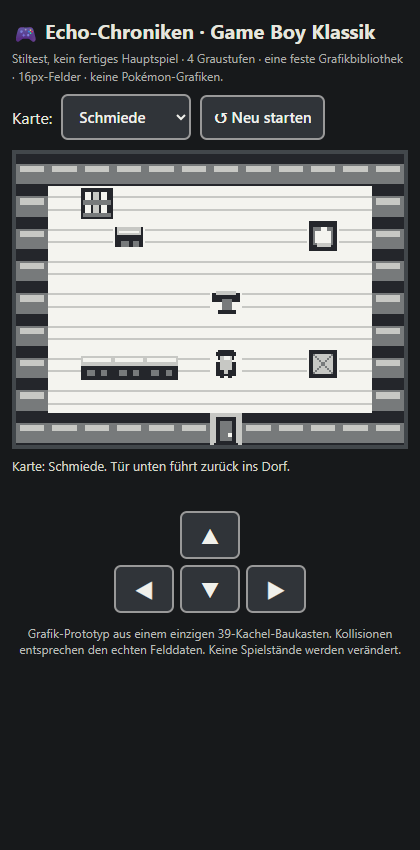
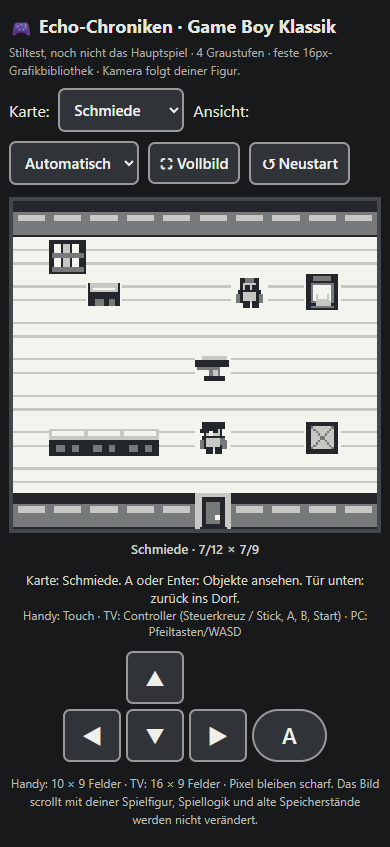
art: include native four-tone atlas and real phone-TV camera screenshots

diff --git a/echo-chroniken/docs/gb-classic/klassik-demo.html b/echo-chroniken/docs/gb-classic/klassik-demo.html
@@ -2,93 +2,251 @@
 <meta name="viewport" content="width=device-width,initial-scale=1,minimum-scale=1" />
 <title>Echo-Chroniken · Game Boy Klassik Stiltest</title>
 <style>
-:root{color-scheme:dark}*{box-sizing:border-box}
-body{background:#17191b;color:#e6e6de;font-family:system-ui,sans-serif;max-width:860px;margin:0 auto;padding:12px}
-h1{font-size:20px;margin:5px 0}.subtitle{font-size:12px;line-height:1.5;color:#acada9;margin-bottom:9px}
-.controls{display:flex;flex-wrap:wrap;gap:9px;align-items:center;margin-bottom:10px}
+:root{color-scheme:dark}
+*{box-sizing:border-box}
+body{background:#17191b;color:#e6e6de;font-family:system-ui,sans-serif;max-width:1160px;margin:0 auto;padding:12px}
+h1{font-size:20px;margin:5px 0}
+.subtitle{font-size:12px;line-height:1.5;color:#acada9;margin-bottom:9px}
+.controls{display:flex;flex-wrap:wrap;gap:9px;align-items:center;margin-bottom:12px}
 select,button{border:2px solid #999;background:#303439;color:#f0f0eb;padding:10px 12px;border-radius:7px;font:600 15px system-ui}
-#view{display:block;image-rendering:pixelated;image-rendering:crisp-edges;background:#f4f4ef;margin:auto;border:4px solid #42474b;width:min(100%,720px);height:auto;touch-action:none}
-.pad{display:grid;grid-template-columns:repeat(3,60px);grid-template-rows:repeat(2,48px);justify-content:center;gap:6px;margin:12px auto}
-.pad button{padding:6px;font-size:21px;touch-action:manipulation}
-.pad .up{grid-column:2}.pad .left{grid-column:1;grid-row:2}.pad .down{grid-column:2;grid-row:2}.pad .right{grid-column:3;grid-row:2}
-footer{font-size:12px;color:#b8bbb6;text-align:center;margin-top:6px}
-#message{font-size:13px;min-height:42px;line-height:1.4;color:#d5d6c9;margin-top:8px}
-kbd{border:1px solid #737c80;padding:2px 4px;border-radius:4px}
+button:focus-visible,select:focus-visible{outline:3px solid #f4f4ef;outline-offset:2px}
+#game-frame{margin:0 auto;max-width:1100px;display:grid;justify-items:center}
+#view{display:block;image-rendering:pixelated;image-rendering:crisp-edges;background:#f4f4ef;border:4px solid #42474b;
+  max-width:100%;width:100%;height:auto;touch-action:none}
+#hud{font-size:13px;font-weight:600;align-self:start;margin:7px 0;color:#d1d1cc}
+#message{font-size:13px;min-height:34px;line-height:1.4;color:#d5d6c9;margin-top:7px;text-align:center}
+#controller-state{font-size:12px;color:#babdb7;text-align:center}
+.pad{display:grid;grid-template-columns:repeat(3,66px) 82px;grid-template-rows:repeat(2,55px);
+ justify-content:center;gap:7px;margin:12px auto}
+.pad button{padding:6px;font-size:22px;touch-action:none;user-select:none;-webkit-user-select:none}
+.pad .up{grid-column:2;grid-row:1}.pad .left{grid-column:1;grid-row:2}
+.pad .down{grid-column:2;grid-row:2}.pad .right{grid-column:3;grid-row:2}
+.pad .action{grid-column:4;grid-row:2;border-radius:30px}
+footer{font-size:12px;line-height:1.5;color:#b8bbb6;text-align:center;margin:10px auto;max-width:650px}
+body.gamepad .pad{display:none}
+@media (orientation:landscape) and (min-width:850px){body{padding:10px 24px}#game-frame{width:100%}.pad{display:none}}
+@media (max-width:480px){body{padding:9px}.pad{grid-template-columns:repeat(3,58px) 75px;grid-template-rows:repeat(2,53px);gap:5px}
+h1{font-size:18px}select,button{padding:9px 10px}}
+:fullscreen body{max-width:none;width:100vw;height:100vh}
+:fullscreen #view{max-height:76vh}
 </style></head><body>
 <h1>🎮 Echo-Chroniken · Game Boy Klassik</h1>
-<div class="subtitle">Stiltest, kein fertiges Hauptspiel · 4 Graustufen · eine feste Grafikbibliothek · 16px-Felder · keine Pokémon-Grafiken.</div>
-<div class="controls"><label for="scene">Karte:</label><select id="scene"></select>
-<button id="reset">↺ Neu starten</button></div>
-<canvas id="view" width="320" height="288" aria-label="Spielkarte"></canvas>
-<div id="message">Mit Steuerkreuz oder Pfeiltasten bewegen. Das Tor eines Hauses führt in ein Innenzimmer.</div>
-<div class="pad">
+<div class="subtitle">Stiltest, noch nicht das Hauptspiel · 4 Graustufen · feste 16px-Grafikbibliothek · Kamera folgt deiner Figur.</div>
+<div class="controls">
+<label for="scene">Karte:</label><select id="scene"></select>
+<label for="mode">Ansicht:</label><select id="mode" aria-label="Bildschirmansicht">
+<option value="auto">Automatisch</option><option value="phone">Handy</option><option value="tv">TV</option>
+</select>
+<button id="fullscreen" type="button">⛶ Vollbild</button>
+<button id="reset" type="button">↺ Neustart</button>
+</div>
+<div id="game-frame">
+<canvas id="view" width="160" height="144" aria-label="Ausschnitt der Spielwelt, folgt deiner Figur"></canvas>
+<div id="hud" aria-live="polite"></div>
+</div>
+<div id="message" role="status">Mit Steuerkreuz, Pfeiltasten oder Gamepad bewegen. Mit A oder Enter interagieren.</div>
+<div id="controller-state">Handy: Touch · TV: Controller (Steuerkreuz / Stick, A, B, Start) · PC: Pfeiltasten/WASD</div>
+<div class="pad" aria-label="Steuerung">
 <button class="up" data-move="0,-1" aria-label="Hoch">▲</button>
 <button class="left" data-move="-1,0" aria-label="Links">◀</button>
 <button class="down" data-move="0,1" aria-label="Runter">▼</button>
 <button class="right" data-move="1,0" aria-label="Rechts">▶</button>
+<button class="action" id="action" aria-label="Interagieren">A</button>
 </div>
-<footer>Grafik-Prototyp aus einem einzigen 39-Kachel-Baukasten. Kollisionen entsprechen den echten Felddaten. Keine Spielstände werden verändert.</footer>
+<footer>Handy: 10 × 9 Felder · TV: 16 × 9 Felder · Pixel bleiben scharf. Das Bild scrollt mit deiner Spielfigur, Spiellogik und alte Speicherstände werden nicht verändert.</footer>
 <script>
-const DATA={"version":"1.0","scenes":{"Wurzelheim":{"width":20,"height":18,"rows":["44444444400444444444","40000000000000000004","40000000000000000004","400abbc000000abbc004","400dddd000000dddd004","400defd000000def9004","40000000000000000004","40555500000055555004","40000000009000000004","400B0000000000666004","4000000abbc000666004","4000000dddd00000B004","4003300defe000033004","40000000000000000004","40555550000005555004","4000000000y000000004","40000000000000000004","44444444400444444444"],"blocked":[[0,0],[1,0],[2,0],[3,0],[4,0],[5,0],[6,0],[7,0],[8,0],[11,0],[12,0],[13,0],[14,0],[15,0],[16,0],[17,0],[18,0],[19,0],[0,1],[19,1],[0,2],[19,2],[0,3],[3,3],[4,3],[5,3],[6,3],[13,3],[14,3],[15,3],[16,3],[19,3],[0,4],[3,4],[4,4],[5,4],[6,4],[13,4],[14,4],[15,4],[16,4],[19,4],[0,5],[3,5],[4,5],[6,5],[13,5],[14,5],[19,5],[0,6],[19,6],[0,7],[2,7],[3,7],[4,7],[5,7],[12,7],[13,7],[14,7],[15,7],[16,7],[19,7],[0,8],[19,8],[0,9],[14,9],[15,9],[16,9],[19,9],[0,10],[7,10],[8,10],[9,10],[10,10],[14,10],[15,10],[16,10],[19,10],[0,11],[7,11],[8,11],[9,11],[10,11],[19,11],[0,12],[3,12],[4,12],[7,12],[8,12],[10,12],[15,12],[16,12],[19,12],[0,13],[19,13],[0,14],[2,14],[3,14],[4,14],[5,14],[6,14],[13,14],[14,14],[15,14],[16,14],[19,14],[0,15],[19,15],[0,16],[19,16],[0,17],[1,17],[2,17],[3,17],[4,17],[5,17],[6,17],[7,17],[8,17],[11,17],[12,17],[13,17],[14,17],[15,17],[16,17],[17,17],[18,17],[19,17]]},"Route":{"width":20,"height":18,"rows":["44444444000444444444","44000000000000000044","44000000000000000044","44022220000002222044","44022220000002222044","44022220000002222044","44022220000002222044","44022220000002222044","44022220000002222044","4400000000000x000044","44000090000000000044","44000000000000000044","44022220000000000044","44022220000555550044","44022220000000000044","440000000y0000000044","44000000000000000044","44444444000444444444"],"blocked":[[0,0],[1,0],[2,0],[3,0],[4,0],[5,0],[6,0],[7,0],[11,0],[12,0],[13,0],[14,0],[15,0],[16,0],[17,0],[18,0],[19,0],[0,1],[1,1],[18,1],[19,1],[0,2],[1,2],[18,2],[19,2],[0,3],[1,3],[18,3],[19,3],[0,4],[1,4],[18,4],[19,4],[0,5],[1,5],[18,5],[19,5],[0,6],[1,6],[18,6],[19,6],[0,7],[1,7],[18,7],[19,7],[0,8],[1,8],[18,8],[19,8],[0,9],[1,9],[18,9],[19,9],[0,10],[1,10],[18,10],[19,10],[0,11],[1,11],[18,11],[19,11],[0,12],[1,12],[18,12],[19,12],[0,13],[1,13],[11,13],[12,13],[13,13],[14,13],[15,13],[18,13],[19,13],[0,14],[1,14],[18,14],[19,14],[0,15],[1,15],[18,15],[19,15],[0,16],[1,16],[18,16],[19,16],[0,17],[1,17],[2,17],[3,17],[4,17],[5,17],[6,17],[7,17],[11,17],[12,17],[13,17],[14,17],[15,17],[16,17],[17,17],[18,17],[19,17]]},"Laden":{"width":12,"height":9,"rows":["hhhhhhhhhhhh","hgiiiiiggxgh","hggggggjjjjh","hggggggggggh","hggiiggiiggh","hggggggggggh","hgggggyggggh","hggggggggggh","hhhhhhfhhhhh"],"blocked":[[0,0],[1,0],[2,0],[3,0],[4,0],[5,0],[6,0],[7,0],[8,0],[9,0],[10,0],[11,0],[0,1],[2,1],[3,1],[4,1],[5,1],[6,1],[11,1],[0,2],[7,2],[8,2],[9,2],[10,2],[11,2],[0,3],[11,3],[0,4],[3,4],[4,4],[7,4],[8,4],[11,4],[0,5],[11,5],[0,6],[11,6],[0,7],[11,7],[0,8],[1,8],[2,8],[3,8],[4,8],[5,8],[7,8],[8,8],[9,8],[10,8],[11,8]]},"Heilstation":{"width":14,"height":9,"rows":["hhhhhhhhhhhhhh","hggggggngxgggh","hgvjjjjjjjjvgh","hggggggggggggh","hggggggggggggh","hggllggggllggh","hggggggygggggh","hggggggggggggh","hhhhhhhfhhhhhh"],"blocked":[[0,0],[1,0],[2,0],[3,0],[4,0],[5,0],[6,0],[7,0],[8,0],[9,0],[10,0],[11,0],[12,0],[13,0],[0,1],[7,1],[13,1],[0,2],[2,2],[3,2],[4,2],[5,2],[6,2],[7,2],[8,2],[9,2],[10,2],[11,2],[13,2],[0,3],[13,3],[0,4],[13,4],[0,5],[3,5],[4,5],[9,5],[10,5],[13,5],[0,6],[13,6],[0,7],[13,7],[0,8],[1,8],[2,8],[3,8],[4,8],[5,8],[6,8],[8,8],[9,8],[10,8],[11,8],[12,8],[13,8]]},"Schmiede":{"width":12,"height":9,"rows":["hhhhhhhhhhhh","hgiggggggggh","hggugggxgogh","hggggggggggh","hgggggpggggh","hggggggggggh","hgjjjgyggqgh","hggggggggggh","hhhhhhfhhhhh"],"blocked":[[0,0],[1,0],[2,0],[3,0],[4,0],[5,0],[6,0],[7,0],[8,0],[9,0],[10,0],[11,0],[0,1],[2,1],[11,1],[0,2],[3,2],[9,2],[11,2],[0,3],[11,3],[0,4],[6,4],[11,4],[0,5],[11,5],[0,6],[2,6],[3,6],[4,6],[9,6],[11,6],[0,7],[11,7],[0,8],[1,8],[2,8],[3,8],[4,8],[5,8],[7,8],[8,8],[9,8],[10,8],[11,8]]},"Teamtausch":{"width":12,"height":9,"rows":["hhhhhhhhhhhh","hggmmgwwwggh","hggggggggggh","hgggggxggggh","hggggggggggh","hggjggggjggh","hgggggyggggh","hggggggggggh","hhhhhhfhhhhh"],"blocked":[[0,0],[1,0],[2,0],[3,0],[4,0],[5,0],[6,0],[7,0],[8,0],[9,0],[10,0],[11,0],[0,1],[3,1],[4,1],[6,1],[7,1],[8,1],[11,1],[0,2],[11,2],[0,3],[11,3],[0,4],[11,4],[0,5],[3,5],[8,5],[11,5],[0,6],[11,6],[0,7],[11,7],[0,8],[1,8],[2,8],[3,8],[4,8],[5,8],[7,8],[8,8],[9,8],[10,8],[11,8]]},"Wohnhaus":{"width":10,"height":8,"rows":["hhhhhhhhhh","hgsggggigh","hggggggggh","hggggggggh","hggggkgggh","hgvggylggh","hggggggggh","hhhhhfhhhh"],"blocked":[[0,0],[1,0],[2,0],[3,0],[4,0],[5,0],[6,0],[7,0],[8,0],[9,0],[0,1],[2,1],[7,1],[9,1],[0,2],[9,2],[0,3],[9,3],[0,4],[5,4],[9,4],[0,5],[2,5],[6,5],[9,5],[0,6],[9,6],[0,7],[1,7],[2,7],[3,7],[4,7],[6,7],[7,7],[8,7],[9,7]]}},"symbols":{"0":"floor","1":"path","2":"grass","3":"bush","4":"tree","5":"fence","6":"water_a","7":"water_b","8":"rock","9":"sign","a":"roof_l","b":"roof_m","c":"roof_r","d":"wall","e":"window","f":"door","g":"room_floor","h":"room_wall","i":"bookshelf","j":"counter","k":"table","l":"chair","m":"computer","n":"heal_pod","o":"forge","p":"anvil","q":"crate","r":"barrel","s":"bed","t":"stairs","u":"workbench","v":"plant","w":"capsule","x":"npc","y":"player","z":"water_edge","A":"hedge","B":"flower","C":"floor_stone"}};
-const MANIFEST={"version":"1.0","name":"Echo-Chroniken GB-Klassik","license":"Original artwork, project-owned; inspired by constraints, not copied sprites","palette":["#f4f4ef","#c7c8c4","#777a7b","#24262b"],"tileSize":16,"sprites":{"floor":{"atlasIndex":0,"collision":false},"path":{"atlasIndex":1,"collision":false},"grass":{"atlasIndex":2,"collision":false},"bush":{"atlasIndex":3,"collision":true},"tree":{"atlasIndex":4,"collision":true},"fence":{"atlasIndex":5,"collision":true},"water_a":{"atlasIndex":6,"collision":true},"water_b":{"atlasIndex":7,"collision":true},"rock":{"atlasIndex":8,"collision":true},"sign":{"atlasIndex":9,"collision":false},"roof_l":{"atlasIndex":10,"collision":true},"roof_m":{"atlasIndex":11,"collision":true},"roof_r":{"atlasIndex":12,"collision":true},"wall":{"atlasIndex":13,"collision":true},"window":{"atlasIndex":14,"collision":true},"door":{"atlasIndex":15,"collision":false},"room_floor":{"atlasIndex":16,"collision":false},"room_wall":{"atlasIndex":17,"collision":true},"bookshelf":{"atlasIndex":18,"collision":true},"counter":{"atlasIndex":19,"collision":true},"table":{"atlasIndex":20,"collision":true},"chair":{"atlasIndex":21,"collision":true},"computer":{"atlasIndex":22,"collision":true},"heal_pod":{"atlasIndex":23,"collision":true},"forge":{"atlasIndex":24,"collision":true},"anvil":{"atlasIndex":25,"collision":true},"crate":{"atlasIndex":26,"collision":true},"barrel":{"atlasIndex":27,"collision":true},"bed":{"atlasIndex":28,"collision":true},"stairs":{"atlasIndex":29,"collision":false},"workbench":{"atlasIndex":30,"collision":true},"plant":{"atlasIndex":31,"collision":true},"capsule":{"atlasIndex":32,"collision":true},"npc":{"atlasIndex":33,"collision":false},"player":{"atlasIndex":34,"collision":false},"water_edge":{"atlasIndex":35,"collision":true},"hedge":{"atlasIndex":36,"collision":true},"flower":{"atlasIndex":37,"collision":false},"floor_stone":{"atlasIndex":38,"collision":false}},"sourceReferences":["https://www.peterhajas.com/blog/pokemon_rb_map_parsing/","https://opengameart.org/content/4-colour-interior-tileset","https://opengameart.org/content/4-colour-overworld-tileset"]};
[1 lines of base64/hex data omitted]
-const atlas=new Image();atlas.src=ATLAS;
-const tileSize=16,view=document.getElementById("view"),ctx=view.getContext("2d");
-ctx.imageSmoothingEnabled=false;
-const sel=document.getElementById("scene"),msg=document.getElementById("message");
+'use strict';
+const DATA={"version":"1.0","scenes":{"Wurzelheim":{"width":20,"height":18,"rows":["44444444400444444444","40000000000000000004","40000000000000000004","400abbc000000abbc004","400dddd000000dddd004","400defd000000def9004","40000000000000000004","40555500000055555004","40000000009000000004","400B0000000000666004","4000000abbc000666004","4000000dddd00000B004","4003300defe000033004","40000000000000000004","40555550000005555004","4000000000y000000004","40000000000000000004","44444444400444444444"],"blocked":[[0,0],[1,0],[2,0],[3,0],[4,0],[5,0],[6,0],[7,0],[8,0],[11,0],[12,0],[13,0],[14,0],[15,0],[16,0],[17,0],[18,0],[19,0],[0,1],[19,1],[0,2],[19,2],[0,3],[3,3],[4,3],[5,3],[6,3],[13,3],[14,3],[15,3],[16,3],[19,3],[0,4],[3,4],[4,4],[5,4],[6,4],[13,4],[14,4],[15,4],[16,4],[19,4],[0,5],[3,5],[4,5],[6,5],[13,5],[14,5],[19,5],[0,6],[19,6],[0,7],[2,7],[3,7],[4,7],[5,7],[12,7],[13,7],[14,7],[15,7],[16,7],[19,7],[0,8],[19,8],[0,9],[14,9],[15,9],[16,9],[19,9],[0,10],[7,10],[8,10],[9,10],[10,10],[14,10],[15,10],[16,10],[19,10],[0,11],[7,11],[8,11],[9,11],[10,11],[19,11],[0,12],[3,12],[4,12],[7,12],[8,12],[10,12],[15,12],[16,12],[19,12],[0,13],[19,13],[0,14],[2,14],[3,14],[4,14],[5,14],[6,14],[13,14],[14,14],[15,14],[16,14],[19,14],[0,15],[19,15],[0,16],[19,16],[0,17],[1,17],[2,17],[3,17],[4,17],[5,17],[6,17],[7,17],[8,17],[11,17],[12,17],[13,17],[14,17],[15,17],[16,17],[17,17],[18,17],[19,17]]},"Route":{"width":20,"height":18,"rows":["44444444000444444444","44000000000000000044","44000000000000000044","44022220000002222044","44022220000002222044","44022220000002222044","44022220000002222044","44022220000002222044","44022220000002222044","4400000000000x000044","44000090000000000044","44000000000000000044","44022220000000000044","44022220000555550044","44022220000000000044","440000000y0000000044","44000000000000000044","44444444000444444444"],"blocked":[[0,0],[1,0],[2,0],[3,0],[4,0],[5,0],[6,0],[7,0],[11,0],[12,0],[13,0],[14,0],[15,0],[16,0],[17,0],[18,0],[19,0],[0,1],[1,1],[18,1],[19,1],[0,2],[1,2],[18,2],[19,2],[0,3],[1,3],[18,3],[19,3],[0,4],[1,4],[18,4],[19,4],[0,5],[1,5],[18,5],[19,5],[0,6],[1,6],[18,6],[19,6],[0,7],[1,7],[18,7],[19,7],[0,8],[1,8],[18,8],[19,8],[0,9],[1,9],[18,9],[19,9],[0,10],[1,10],[18,10],[19,10],[0,11],[1,11],[18,11],[19,11],[0,12],[1,12],[18,12],[19,12],[0,13],[1,13],[11,13],[12,13],[13,13],[14,13],[15,13],[18,13],[19,13],[0,14],[1,14],[18,14],[19,14],[0,15],[1,15],[18,15],[19,15],[0,16],[1,16],[18,16],[19,16],[0,17],[1,17],[2,17],[3,17],[4,17],[5,17],[6,17],[7,17],[11,17],[12,17],[13,17],[14,17],[15,17],[16,17],[17,17],[18,17],[19,17]]},"Laden":{"width":12,"height":9,"rows":["hhhhhhhhhhhh","hgiiiiiggxgh","hggggggjjjjh","hggggggggggh","hggiiggiiggh","hggggggggggh","hgggggyggggh","hggggggggggh","hhhhhhfhhhhh"],"blocked":[[0,0],[1,0],[2,0],[3,0],[4,0],[5,0],[6,0],[7,0],[8,0],[9,0],[10,0],[11,0],[0,1],[2,1],[3,1],[4,1],[5,1],[6,1],[11,1],[0,2],[7,2],[8,2],[9,2],[10,2],[11,2],[0,3],[11,3],[0,4],[3,4],[4,4],[7,4],[8,4],[11,4],[0,5],[11,5],[0,6],[11,6],[0,7],[11,7],[0,8],[1,8],[2,8],[3,8],[4,8],[5,8],[7,8],[8,8],[9,8],[10,8],[11,8]]},"Heilstation":{"width":14,"height":9,"rows":["hhhhhhhhhhhhhh","hggggggngxgggh","hgvjjjjjjjjvgh","hggggggggggggh","hggggggggggggh","hggllggggllggh","hggggggygggggh","hggggggggggggh","hhhhhhhfhhhhhh"],"blocked":[[0,0],[1,0],[2,0],[3,0],[4,0],[5,0],[6,0],[7,0],[8,0],[9,0],[10,0],[11,0],[12,0],[13,0],[0,1],[7,1],[13,1],[0,2],[2,2],[3,2],[4,2],[5,2],[6,2],[7,2],[8,2],[9,2],[10,2],[11,2],[13,2],[0,3],[13,3],[0,4],[13,4],[0,5],[3,5],[4,5],[9,5],[10,5],[13,5],[0,6],[13,6],[0,7],[13,7],[0,8],[1,8],[2,8],[3,8],[4,8],[5,8],[6,8],[8,8],[9,8],[10,8],[11,8],[12,8],[13,8]]},"Schmiede":{"width":12,"height":9,"rows":["hhhhhhhhhhhh","hgiggggggggh","hggugggxgogh","hggggggggggh","hgggggpggggh","hggggggggggh","hgjjjgyggqgh","hggggggggggh","hhhhhhfhhhhh"],"blocked":[[0,0],[1,0],[2,0],[3,0],[4,0],[5,0],[6,0],[7,0],[8,0],[9,0],[10,0],[11,0],[0,1],[2,1],[11,1],[0,2],[3,2],[9,2],[11,2],[0,3],[11,3],[0,4],[6,4],[11,4],[0,5],[11,5],[0,6],[2,6],[3,6],[4,6],[9,6],[11,6],[0,7],[11,7],[0,8],[1,8],[2,8],[3,8],[4,8],[5,8],[7,8],[8,8],[9,8],[10,8],[11,8]]},"Teamtausch":{"width":12,"height":9,"rows":["hhhhhhhhhhhh","hggmmgwwwggh","hggggggggggh","hgggggxggggh","hggggggggggh","hggjggggjggh","hgggggyggggh","hggggggggggh","hhhhhhfhhhhh"],"blocked":[[0,0],[1,0],[2,0],[3,0],[4,0],[5,0],[6,0],[7,0],[8,0],[9,0],[10,0],[11,0],[0,1],[3,1],[4,1],[6,1],[7,1],[8,1],[11,1],[0,2],[11,2],[0,3],[11,3],[0,4],[11,4],[0,5],[3,5],[8,5],[11,5],[0,6],[11,6],[0,7],[11,7],[0,8],[1,8],[2,8],[3,8],[4,8],[5,8],[7,8],[8,8],[9,8],[10,8],[11,8]]},"Wohnhaus":{"width":10,"height":8,"rows":["hhhhhhhhhh","hgsggggigh","hggggggggh","hggggggggh","hggggkgggh","hgvggylggh","hggggggggh","hhhhhfhhhh"],"blocked":[[0,0],[1,0],[2,0],[3,0],[4,0],[5,0],[6,0],[7,0],[8,0],[9,0],[0,1],[2,1],[7,1],[9,1],[0,2],[9,2],[0,3],[9,3],[0,4],[5,4],[9,4],[0,5],[2,5],[6,5],[9,5],[0,6],[9,6],[0,7],[1,7],[2,7],[3,7],[4,7],[6,7],[7,7],[8,7],[9,7]]}},"symbols":{"0":"floor","1":"path","2":"grass","3":"bush","4":"tree","5":"fence","6":"water_a","7":"water_b","8":"rock","9":"sign","a":"roof_l","b":"roof_m","c":"roof_r","d":"wall","e":"window","f":"door","g":"room_floor","h":"room_wall","i":"bookshelf","j":"counter","k":"table","l":"chair","m":"computer","n":"heal_pod","o":"forge","p":"anvil","q":"crate","r":"barrel","s":"bed","t":"stairs","u":"workbench","v":"plant","w":"capsule","x":"npc","y":"player","z":"water_edge","A":"hedge","B":"flower","C":"floor_stone"}},MANIFEST={"version":"1.0","name":"Echo-Chroniken GB-Klassik","license":"Original artwork, project-owned; inspired by constraints, not copied sprites","palette":["#f4f4ef","#c7c8c4","#777a7b","#24262b"],"tileSize":16,"sprites":{"floor":{"atlasIndex":0,"collision":false},"path":{"atlasIndex":1,"collision":false},"grass":{"atlasIndex":2,"collision":false},"bush":{"atlasIndex":3,"collision":true},"tree":{"atlasIndex":4,"collision":true},"fence":{"atlasIndex":5,"collision":true},"water_a":{"atlasIndex":6,"collision":true},"water_b":{"atlasIndex":7,"collision":true},"rock":{"atlasIndex":8,"collision":true},"sign":{"atlasIndex":9,"collision":false},"roof_l":{"atlasIndex":10,"collision":true},"roof_m":{"atlasIndex":11,"collision":true},"roof_r":{"atlasIndex":12,"collision":true},"wall":{"atlasIndex":13,"collision":true},"window":{"atlasIndex":14,"collision":true},"door":{"atlasIndex":15,"collision":false},"room_floor":{"atlasIndex":16,"collision":false},"room_wall":{"atlasIndex":17,"collision":true},"bookshelf":{"atlasIndex":18,"collision":true},"counter":{"atlasIndex":19,"collision":true},"table":{"atlasIndex":20,"collision":true},"chair":{"atlasIndex":21,"collision":true},"computer":{"atlasIndex":22,"collision":true},"heal_pod":{"atlasIndex":23,"collision":true},"forge":{"atlasIndex":24,"collision":true},"anvil":{"atlasIndex":25,"collision":true},"crate":{"atlasIndex":26,"collision":true},"barrel":{"atlasIndex":27,"collision":true},"bed":{"atlasIndex":28,"collision":true},"stairs":{"atlasIndex":29,"collision":false},"workbench":{"atlasIndex":30,"collision":true},"plant":{"atlasIndex":31,"collision":true},"capsule":{"atlasIndex":32,"collision":true},"npc":{"atlasIndex":33,"collision":false},"player":{"atlasIndex":34,"collision":false},"water_edge":{"atlasIndex":35,"collision":true},"hedge":{"atlasIndex":36,"collision":true},"flower":{"atlasIndex":37,"collision":false},"floor_stone":{"atlasIndex":38,"collision":false}},"sourceReferences":["https://www.peterhajas.com/blog/pokemon_rb_map_parsing/","https://opengameart.org/content/4-colour-interior-tileset","https://opengameart.org/content/4-colour-overworld-tileset"]};
+const atlas=new Image();
[1 lines of base64/hex data omitted]
+const TILE=16,view=document.getElementById("view"),ctx=view.getContext("2d");
+const sel=document.getElementById("scene"),mode=document.getElementById("mode");
+const msg=document.getElementById("message"),hud=document.getElementById("hud");
+const padStatus=document.getElementById("controller-state");
 const names=Object.keys(DATA.scenes),glyph=DATA.symbols;
-for(const name of names){let op=document.createElement("option");op.value=name;op.textContent=name;sel.appendChild(op)}
-let scene="Wurzelheim",px=10,py=15,prev="Wurzelheim",wave=0;
+for(const name of names){const op=document.createElement("option");op.value=name;op.textContent=name;sel.appendChild(op);}
+let scene="Wurzelheim",px=10,py=15,dir=[0,-1],wave=0,paused=false;
+let gamepadLastMove=0,gamepadLastButtons={},lastFrame=0,gamepadConnected=false;
+let lastCamera={x:0,y:0,w:10,h:9},lastLayout="";
+// This is one fixed tiled world. Only the camera dimensions change.
+function screenTiles(){
+ const landscape=window.innerWidth>window.innerHeight && window.innerWidth>=650;
+ const tv=mode.value==="tv"||(mode.value==="auto"&&landscape&&
+                   (window.innerWidth>=950||gamepadConnected));
+ const cols=mode.value==="phone"?10:tv?16:landscape?14:10;
+ return {w:cols,h:9};
+}
+function cameraFor(map){
+ const tiles=screenTiles(),w=Math.min(map.width,tiles.w),h=Math.min(map.height,tiles.h);
+ const x=Math.max(0,Math.min(map.width-w,px-Math.floor(w/2)));
+ const y=Math.max(0,Math.min(map.height-h,py-Math.floor(h/2)));
+ return {x,y,w,h};
+}
+function setStatus(message){msg.textContent=message;}
 function stage(name,returning=false){
- scene=name;sel.value=name;
+ if(!DATA.scenes[name])return;
+ scene=name;sel.value=name;paused=false;
  const m=DATA.scenes[name],found=[];
- for(let y=0;y<m.height;y++)for(let x=0;x<m.width;x++)if(glyph[m.rows[y][x]]==="player")found.push([x,y]);
+ for(let y=0;y<m.height;y++)for(let x=0;x<m.width;x++)
+  if(glyph[m.rows[y][x]]==="player")found.push([x,y]);
  [px,py]=found[0]||[Math.floor(m.width/2),m.height-3];
- if(returning){px=10;py=15}
- msg.textContent="Karte: "+name+". "+(name==="Wurzelheim"?"Haus betreten: an die Tür laufen.":"Tür unten führt zurück ins Dorf.");
+ if(returning){px=10;py=15;}
+ dir=[0,-1];
+ setStatus("Karte: "+name+". "+(name==="Wurzelheim"?"Geh zu einer Haustür und drücke Richtung Tür.":"A oder Enter: Objekte ansehen. Tür unten: zurück ins Dorf."));
  draw();
+}
+function tileAt(map,x,y){
+ return glyph[map.rows[y]?.[x]]||null;
 }
 function draw(){
  const map=DATA.scenes[scene];
- if(!atlas.complete||!atlas.naturalWidth)return;
- view.width=map.width*16;view.height=map.height*16;
- ctx.imageSmoothingEnabled=false;
- const x0=0,y0=0;
- for(let y=0;y<map.height;y++)for(let x=0;x<map.width;x++){
-  let id=glyph[map.rows[y][x]];
-  if(id==="player"||id==="npc")id=scene==="Wurzelheim"||scene==="Route"?"floor":"room_floor";
-  if(id==="water_a"&&wave%2===1)id="water_b";
-  const idx=MANIFEST.sprites[id].atlasIndex;
-  ctx.drawImage(atlas,(idx%8)*16,Math.floor(idx/8)*16,16,16,x*16,y*16,16,16);
+ if(!map||!atlas.complete||!atlas.naturalWidth)return;
+ const cam=cameraFor(map);
+ const layout=cam.w+"x"+cam.h;
+ if(lastLayout!==layout){
+  view.width=cam.w*TILE;view.height=cam.h*TILE;lastLayout=layout;
  }
- let actor=MANIFEST.sprites.player.atlasIndex;
- ctx.drawImage(atlas,(actor%8)*16,Math.floor(actor/8)*16,16,16,px*16,py*16,16,16);
+ ctx.imageSmoothingEnabled=false;
+ ctx.fillStyle=MANIFEST.palette[0];
+ ctx.fillRect(0,0,view.width,view.height);
+ for(let y=cam.y;y<cam.y+cam.h;y++)for(let x=cam.x;x<cam.x+cam.w;x++){
+  let id=tileAt(map,x,y);
+  if(id==="player"||id==="npc")
+   id=scene==="Wurzelheim"||scene==="Route"?"floor":"room_floor";
+  if(id==="water_a"&&wave%2)id="water_b";
+  const idx=MANIFEST.sprites[id]?.atlasIndex;
+  if(idx===undefined)continue;
+  ctx.drawImage(atlas,(idx%8)*16,Math.floor(idx/8)*16,16,16,
+                 (x-cam.x)*16,(y-cam.y)*16,16,16);
+ }
+ // NPCs use the same four-shade atlas and remain behind the player.
+ const npcIdx=MANIFEST.sprites.npc.atlasIndex;
+ for(let y=cam.y;y<cam.y+cam.h;y++)for(let x=cam.x;x<cam.x+cam.w;x++){
+  if(tileAt(map,x,y)!=="npc")continue;
+  ctx.drawImage(atlas,(npcIdx%8)*16,Math.floor(npcIdx/8)*16,16,16,
+                (x-cam.x)*16,(y-cam.y)*16,16,16);
+ }
+ const actor=MANIFEST.sprites.player.atlasIndex;
+ ctx.drawImage(atlas,(actor%8)*16,Math.floor(actor/8)*16,16,16,
+               (px-cam.x)*16,(py-cam.y)*16,16,16);
+ hud.textContent=scene+" · "+(px+1)+"/"+map.width+" × "+(py+1)+"/"+map.height+
+                 (paused?" · PAUSE":"");
+ lastCamera=cam;
+}
+function canWalk(m,x,y){
+ const id=tileAt(m,x,y);
+ return !!id&&!MANIFEST.sprites[id]?.collision;
 }
 function step(dx,dy){
+ if(paused)return;
+ dir=[dx,dy];
  const m=DATA.scenes[scene],x=px+dx,y=py+dy;
  if(x<0||y<0||x>=m.width||y>=m.height){
-  if(scene==="Wurzelheim"&&(y<0||y>=m.height)){stage("Route");return}
-  if(scene==="Route"&&(y<0||y>=m.height)){stage("Wurzelheim");return}
+  if(scene==="Wurzelheim"&&(y<0||y>=m.height)){stage("Route");return;}
+  if(scene==="Route"&&(y<0||y>=m.height)){stage("Wurzelheim");return;}
   return;
  }
- const id=glyph[m.rows[y][x]];
- if(MANIFEST.sprites[id]?.collision)return;
+ if(!canWalk(m,x,y))return;
+ const id=tileAt(m,x,y);
  if(id==="door"){
   if(scene==="Wurzelheim"){
-   const target=(x<=6)?"Wohnhaus":(y<=6)?"Laden":"Schmiede";
+   const target=x<=6?"Wohnhaus":y<=6?"Laden":"Schmiede";
    stage(target);return;
   }
   stage("Wurzelheim",true);return;
  }
  px=x;py=y;draw();
 }
+function action(){
+ if(paused){paused=false;draw();return;}
+ const m=DATA.scenes[scene],target=tileAt(m,px+dir[0],py+dir[1]);
+ if(target==="door"){step(...dir);return;}
+ const descriptions={sign:"Ein Wegweiser.",npc:"Eine Person grüßt dich.",
+  forge:"Eine kleine, heiße Schmiedeesse.",anvil:"Ein Amboss.",
+  heal_pod:"Hier kann dein Team geheilt werden.",computer:"Teamverwaltung.",
+  counter:"Eine Verkaufstheke.",bookshelf:"Ein Regal voller Gegenstände.",
+  bed:"Ein gemütliches Bett.",water_a:"Hier ist Wasser."};
+ setStatus(descriptions[target]||"Hier gibt es gerade nichts zu untersuchen.");
+}
+function pauseToggle(){paused=!paused;setStatus(paused?"Pause. Start/Enter zum Fortsetzen.":"Weiter geht's.");draw();}
+function fullscreenToggle(){
+ if(document.fullscreenElement){
+  if(document.exitFullscreen)document.exitFullscreen();
+ }else if(document.documentElement.requestFullscreen){
+  document.documentElement.requestFullscreen().catch(()=>setStatus("Dieser Browser bietet hier keinen Vollbildmodus."));
+ }else setStatus("Vollbild ist in diesem Browser nicht verfügbar.");
+}
+const keys={ArrowUp:[0,-1],ArrowDown:[0,1],ArrowLeft:[-1,0],ArrowRight:[1,0],
+ w:[0,-1],s:[0,1],a:[-1,0],d:[1,0]};
 window.addEventListener("keydown",e=>{
- let d={ArrowUp:[0,-1],ArrowDown:[0,1],ArrowLeft:[-1,0],ArrowRight:[1,0],w:[0,-1],s:[0,1],a:[-1,0],d:[1,0]}[e.key];
- if(d){e.preventDefault();step(...d)}
+ const d=keys[e.key];
+ if(d){
+  e.preventDefault();
+  if(e.repeat)return;
+  step(...d);
+ }else if(["Enter"," ","z"].includes(e.key)){
+  e.preventDefault();if(!e.repeat)action();
+ }else if(["Escape","p"].includes(e.key)){
+  e.preventDefault();if(!e.repeat)pauseToggle();
+ }else if(e.key==="f"&&!e.repeat)fullscreenToggle();
 });
-document.querySelectorAll("button[data-move]").forEach(el=>el.addEventListener("click",()=>step(...el.dataset.move.split(",").map(Number))));
-sel.addEventListener("change",()=>stage(sel.value));
+let heldTimer=null;
+function stopHeld(){if(heldTimer!==null){clearInterval(heldTimer);heldTimer=null;}}
+for(const el of document.querySelectorAll("button[data-move]")){
+ const d=el.dataset.move.split(",").map(Number);
+ el.addEventListener("pointerdown",e=>{
+  if(el.setPointerCapture)el.setPointerCapture(e.pointerId);
+  e.preventDefault();stopHeld();step(...d);
+  heldTimer=setInterval(()=>step(...d),160);
+ });
+ ["pointerup","pointercancel","lostpointercapture","pointerleave"].forEach(name=>
+  el.addEventListener(name,stopHeld));
+ // Keyboard activation already moves via the global keyboard listener.
+}
+window.addEventListener("blur",stopHeld);
+document.getElementById("action").addEventListener("click",action);
+document.getElementById("fullscreen").addEventListener("click",fullscreenToggle);
 document.getElementById("reset").addEventListener("click",()=>stage(scene));
-atlas.onload=()=>stage("Wurzelheim");
-setInterval(()=>{wave++;draw()},500);
+sel.addEventListener("change",()=>stage(sel.value));
+mode.addEventListener("change",draw);
+window.addEventListener("resize",draw);
+window.addEventListener("orientationchange",draw);
+function readGamepad(now){
+ const pads=typeof navigator.getGamepads==="function"?Array.from(navigator.getGamepads()||[]):[];
+ const pad=pads.find(p=>p&&p.connected!==false);
+ const connected=!!pad;
+ if(connected!==gamepadConnected){
+  gamepadConnected=connected;
+  document.body.classList.toggle("gamepad",connected);
+  padStatus.textContent=connected?"🎮 Controller verbunden · Steuerkreuz/Stick, A: Aktion, B: Zurück, Start: Pause":
+   "Handy: Touch · TV: Controller (Steuerkreuz / Stick, A, B, Start) · PC: Pfeiltasten/WASD";
+  draw();
+ }
+ if(!pad)return;
+ const pressed=i=>!!pad.buttons?.[i]?.pressed;
+ let dx=0,dy=0;
+ if(pressed(14))dx=-1;else if(pressed(15))dx=1;
+ if(pressed(12))dy=-1;else if(pressed(13))dy=1;
+ const axes=pad.axes||[];
+ if(!dx&&Math.abs(axes[0]||0)>.5)dx=Math.sign(axes[0]);
+ if(!dy&&Math.abs(axes[1]||0)>.5)dy=Math.sign(axes[1]);
+ if(dx&&dy){
+  if(Math.abs(axes[0]||0)>=Math.abs(axes[1]||0))dy=0;
+  else dx=0;
+ }
+ if((dx||dy)&&now-gamepadLastMove>=165){
+  step(dx,dy);gamepadLastMove=now;
+ }
+ for(const [i,callback] of [[0,action],[1,()=>stage("Wurzelheim",true)],[9,pauseToggle]]){
+  const current=pressed(i),was=!!gamepadLastButtons[i];
+  if(current&&!was)callback();
+  gamepadLastButtons[i]=current;
+ }
+}
+function animate(now){
+ if(now-lastFrame>=380){wave++;lastFrame=now;draw();}
+ readGamepad(now);
+ requestAnimationFrame(animate);
+}
+atlas.onload=()=>{stage("Wurzelheim");requestAnimationFrame(animate);};
 </script></body></html>
